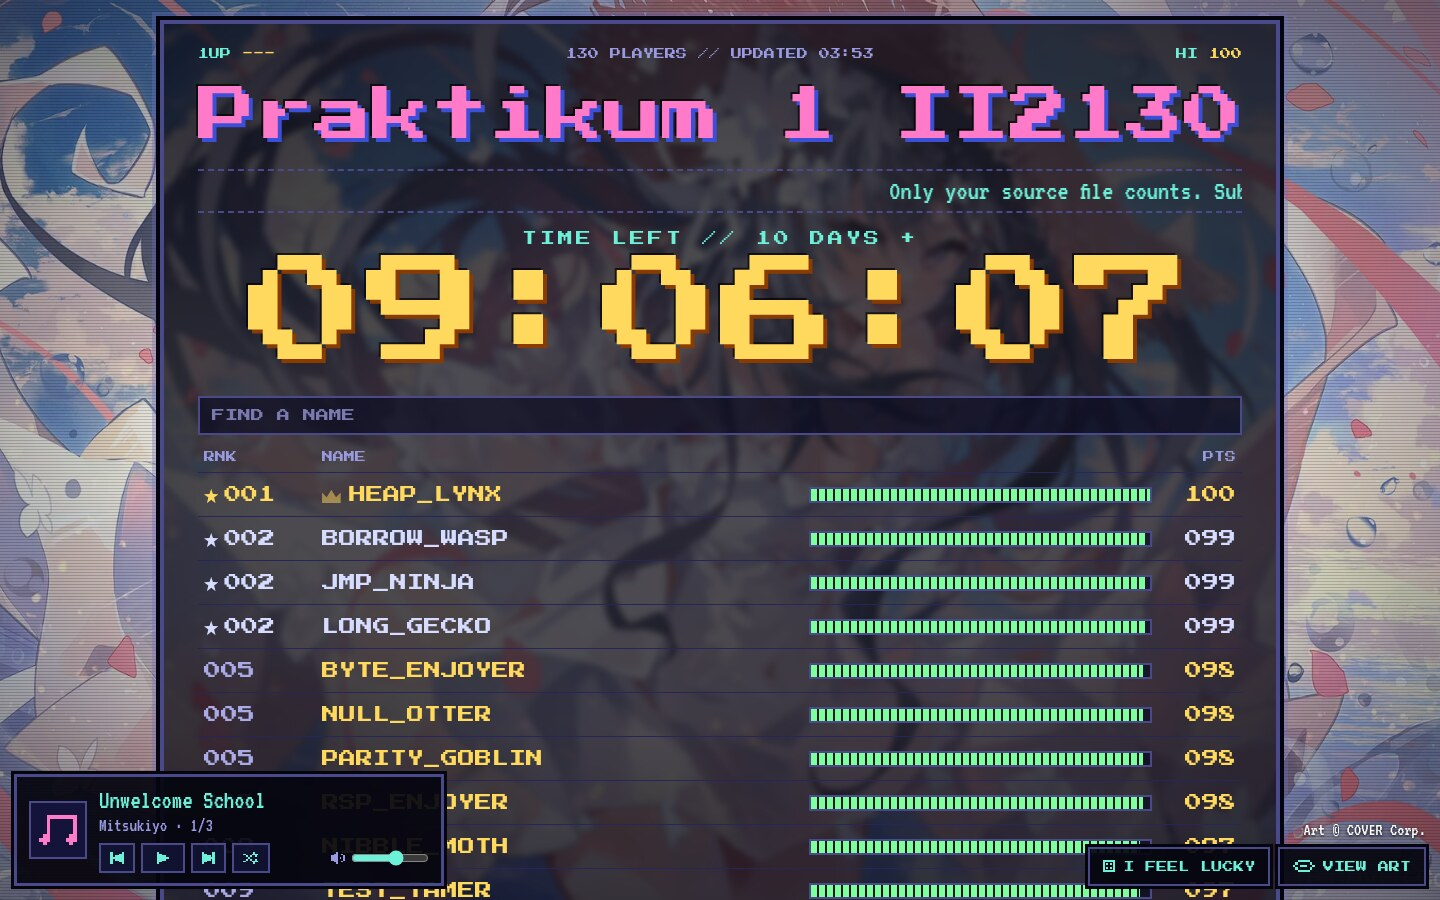
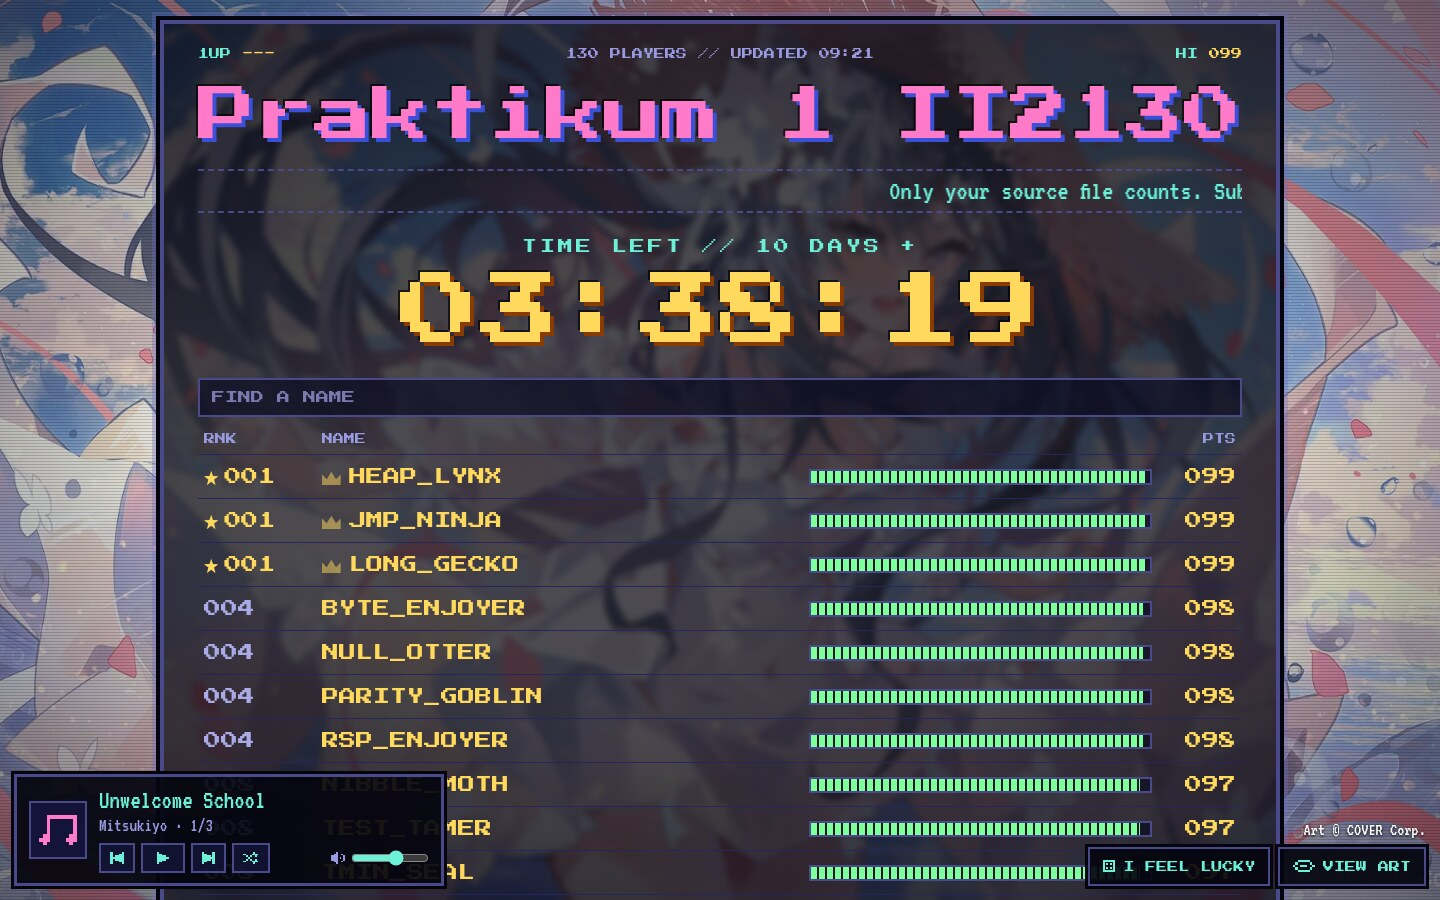
style: balance countdown size and spacing
The countdown was 118 px, twice the 58 px title and 90% of its width,
and sat 10 px under its label, the tightest gap in the header. Cap it
at 80 px (about 1.4 times the title), use 26/18/26 px spacing around
the label and digits, and scale the digit shadow with the font size so
it stays proportional on phones. Screenshots are refreshed to match.

Changed region(s): [[0.125, 0.2489, 0.875, 1.0], [0.8438, 0.0311, 0.875, 0.0622]]

diff --git a/frontend/src/styles.css b/frontend/src/styles.css
@@ -65,14 +65,14 @@ h1 { margin: 0 0 14px; text-align: center; font: 400 clamp(22px, 4.7vw, 58px) / 
 .marquee span { display: inline-block; padding-left: 100%; animation: marquee 30s linear infinite; }
 @keyframes marquee { to { transform: translateX(-100%); } }
 
-.timer { display: flex; flex-direction: column; align-items: center; gap: 10px; margin-bottom: 22px; }
+.timer { display: flex; flex-direction: column; align-items: center; gap: 18px; margin: 26px 0; }
 .timer small { font-size: clamp(9px, 1.4vw, 15px); color: var(--cyan); letter-spacing: 0.2em; text-align: center; }
-.timer b { font: 400 clamp(32px, 10.4vw, 118px) / 1 var(--px); color: var(--gold); font-variant-numeric: tabular-nums; text-shadow: 4px 4px 0 #8a3b00, -2px -2px 0 #000a; white-space: nowrap; }
+.timer b { font: 400 clamp(28px, 7vw, 80px) / 1 var(--px); color: var(--gold); font-variant-numeric: tabular-nums; text-shadow: 0.05em 0.05em 0 #8a3b00, -0.025em -0.025em 0 #000a; white-space: nowrap; }
 .timer i { font-style: normal; }
 .timer.warn b { color: #ffb84d; }
 .timer.warn b i { animation: blink 1s steps(2) infinite; }
 .timer.crit b { color: var(--red); animation: blink 0.5s steps(2) infinite; }
-.timer.over b { color: var(--red); text-shadow: 4px 4px 0 #3b4fd8; }
+.timer.over b { color: var(--red); text-shadow: 0.05em 0.05em 0 #3b4fd8; }
 
 /* controls */
 button {
